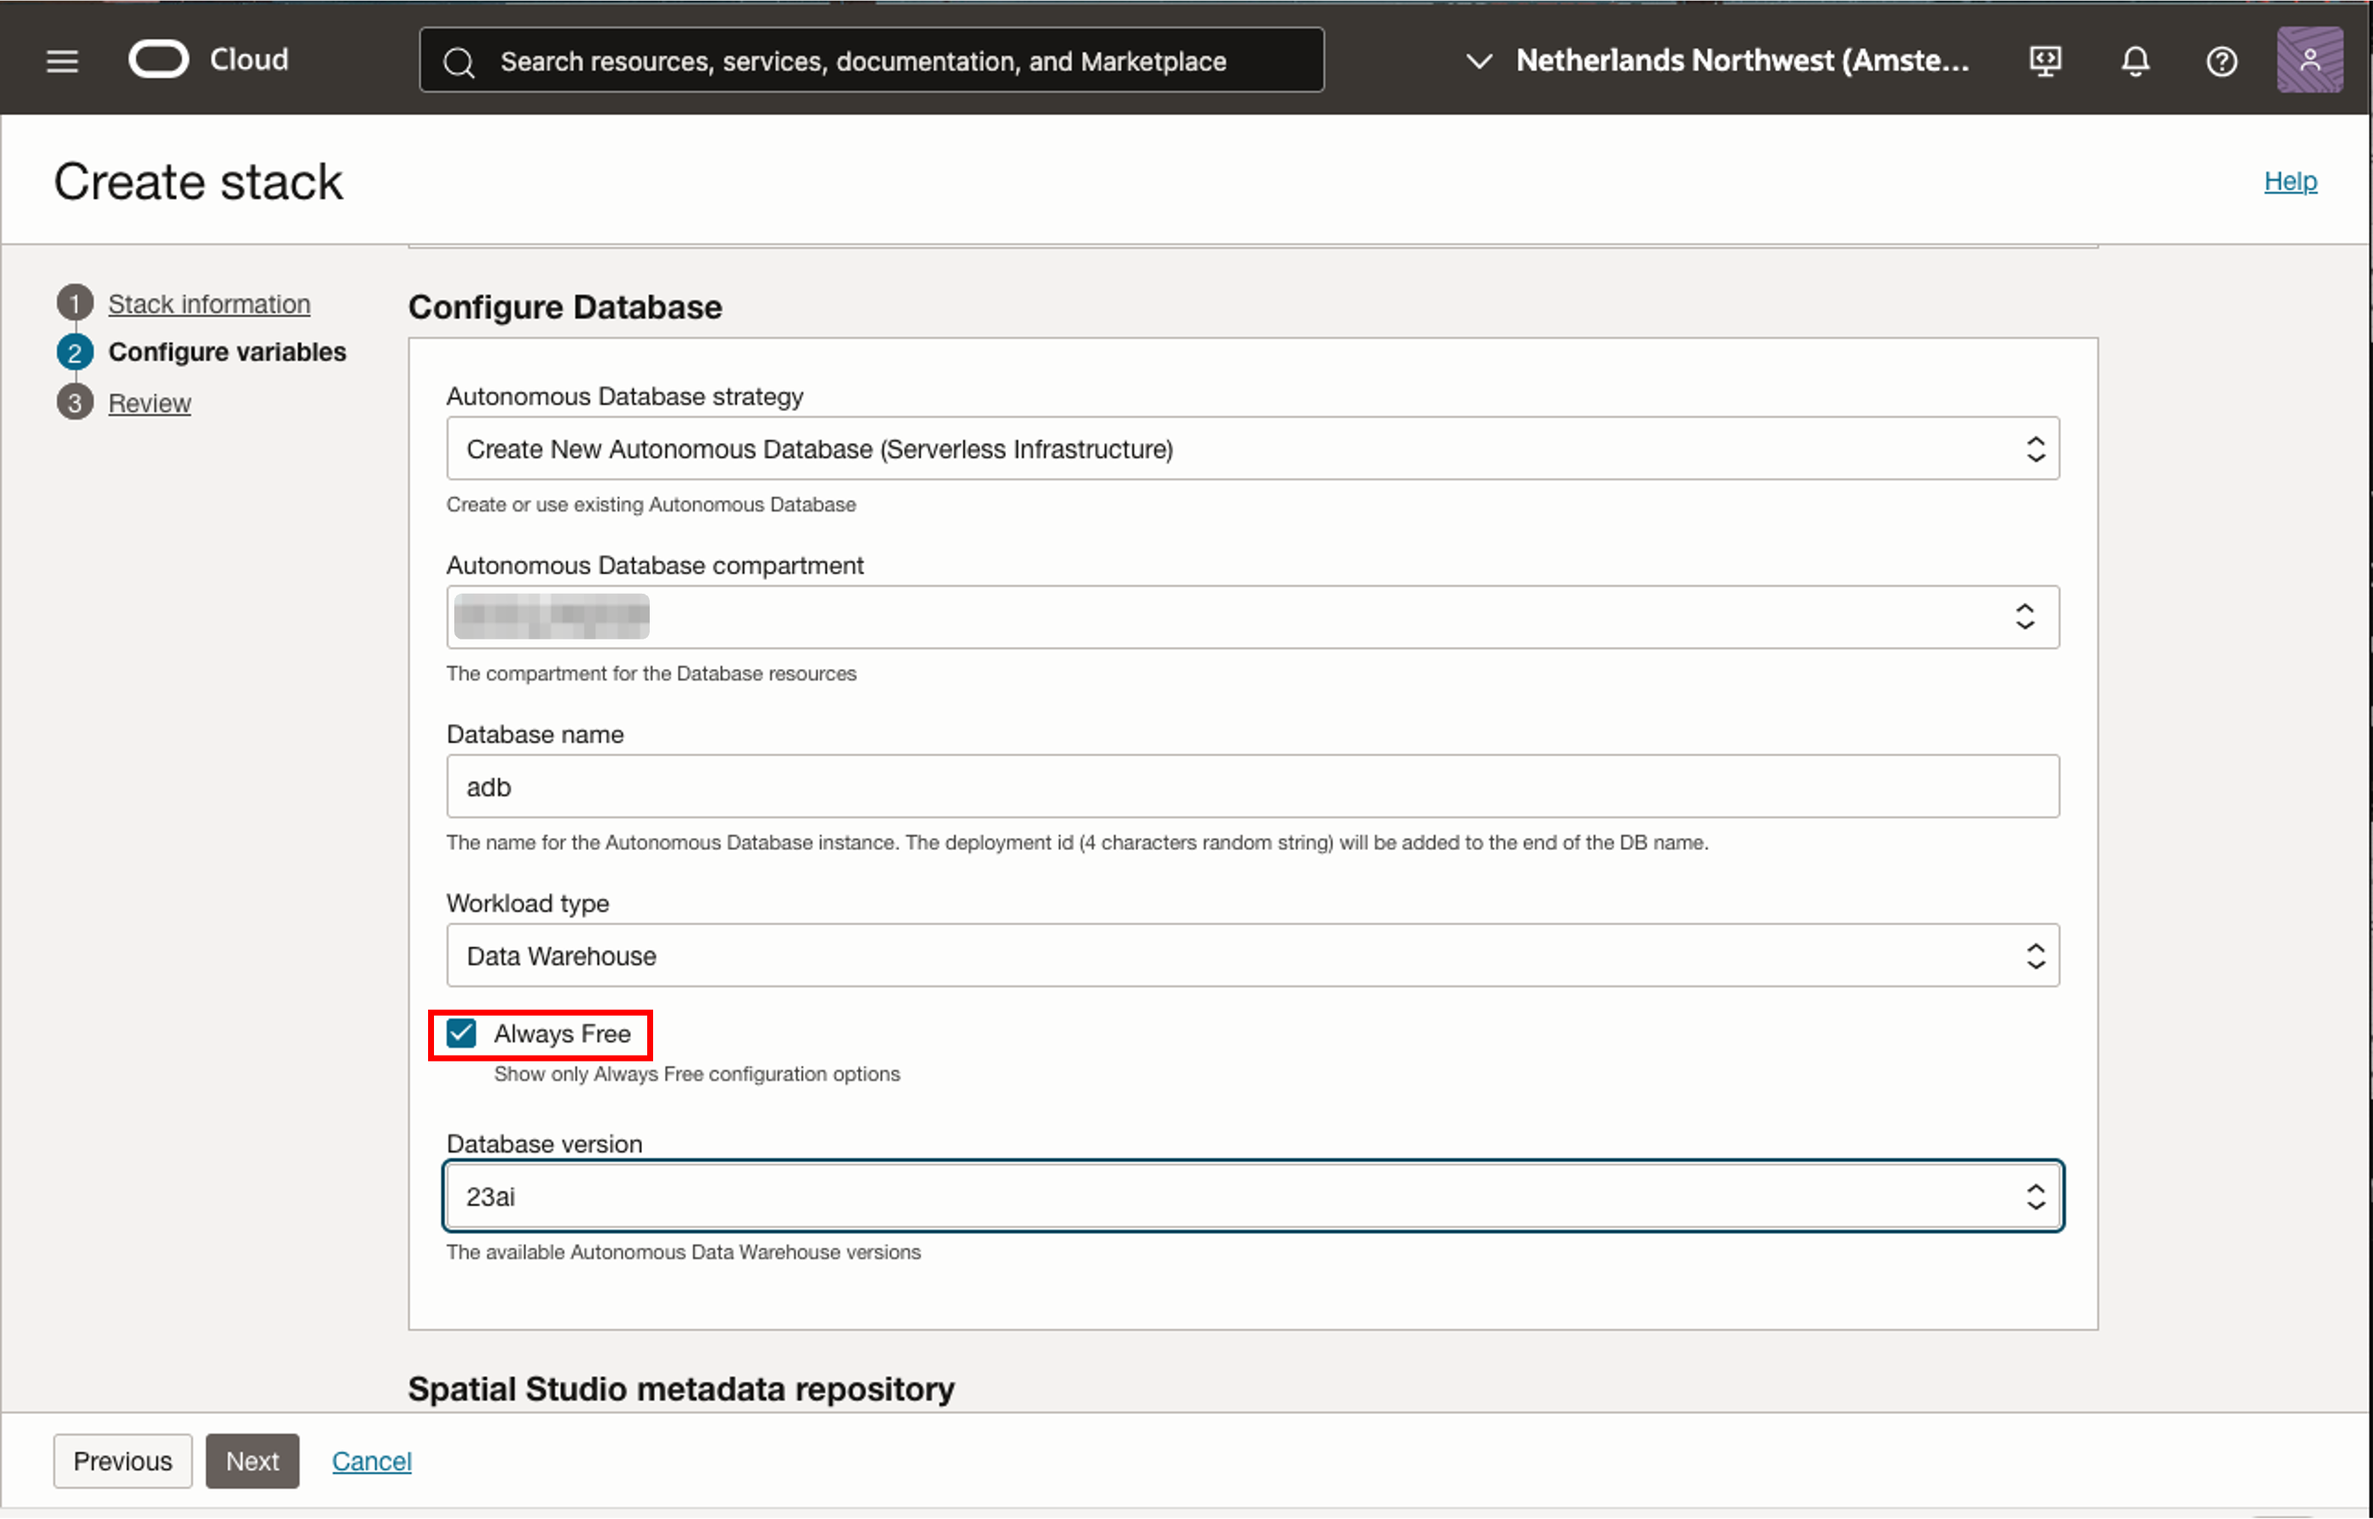
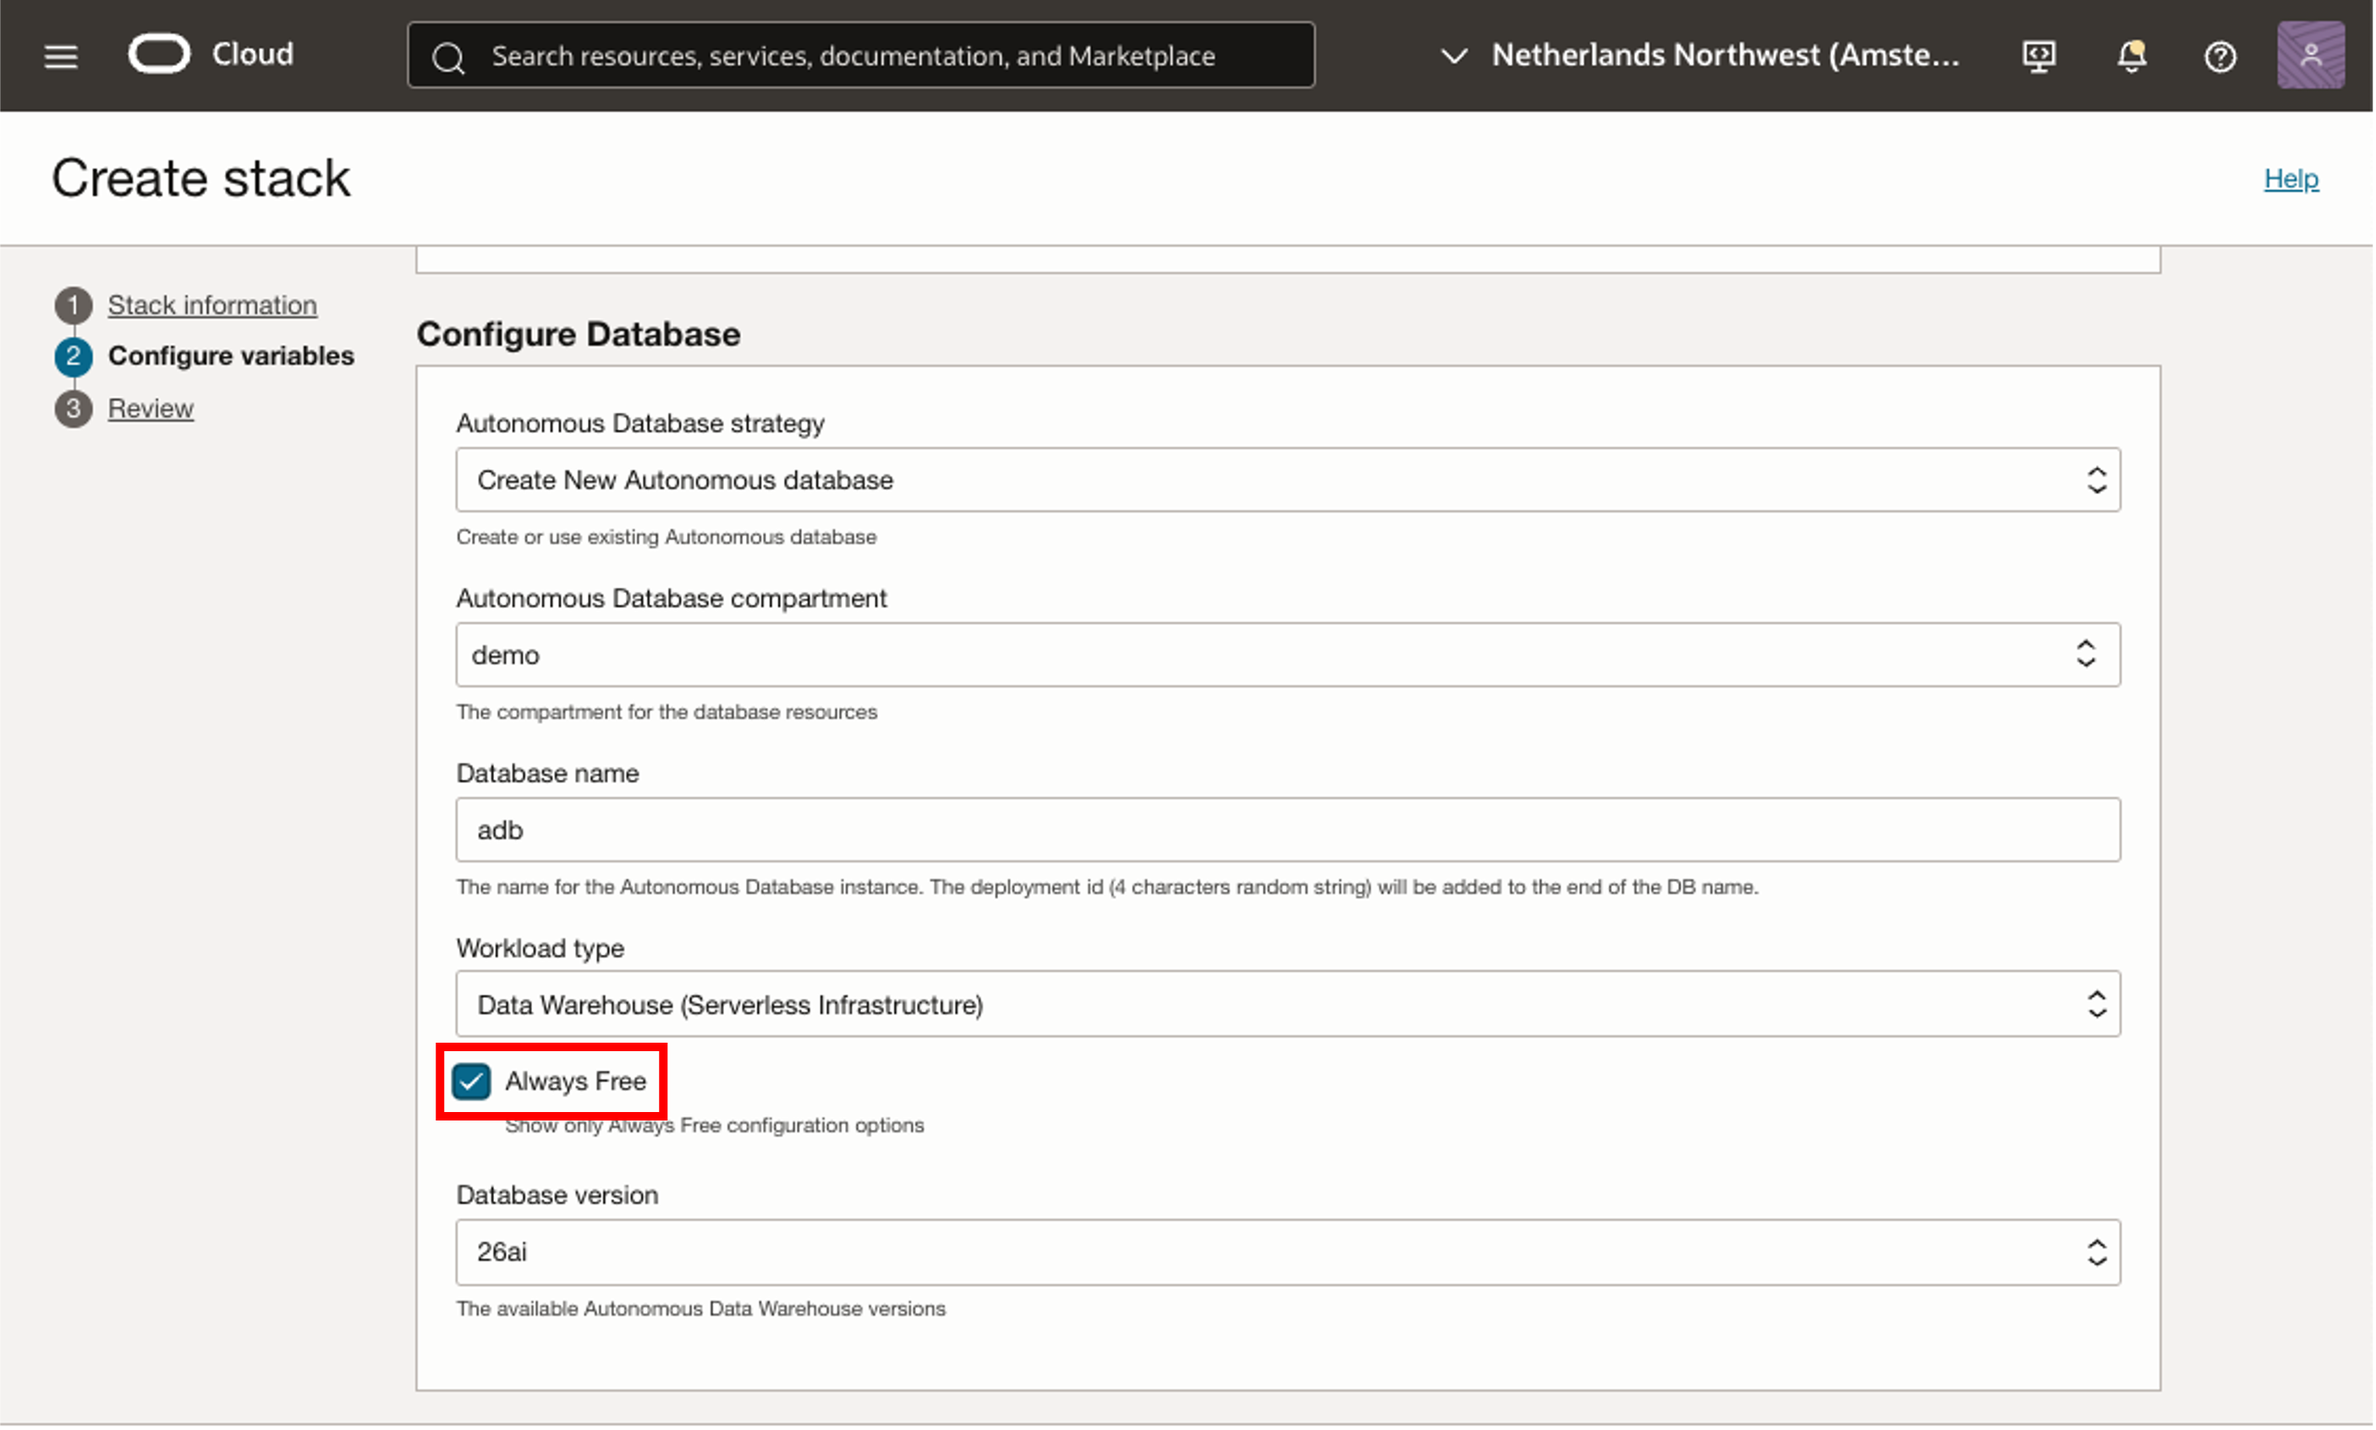
Changed database name to Oracle AI Database, updated images with 26ai and new OCI layout and deletet some old images

diff --git a/spatial-studio/env-mp/env-mp.md b/spatial-studio/env-mp/env-mp.md
@@ -2,7 +2,7 @@
 
 ## Introduction
 
-In this lab, you deploy Spatial Studio from the Cloud Marketplace. The Cloud Marketplace takes care of installing and configuring Spatial Studio and an Autonomous Database. For this workshop we will be using an Always Free account but you can use a paid account or an account with credits.
+In this lab, you deploy Spatial Studio from the Cloud Marketplace. The Cloud Marketplace takes care of installing and configuring Spatial Studio and an Oracle Autonomous AI Database. For this workshop we will be using an Always Free account but you can use a paid account or an account with credits.
 
 Estimated Time: 15 minutes
 
@@ -12,7 +12,7 @@ Watch the video below for a quick walk-through of the lab.
 
 ### Objectives
 
-In this lab, you will:
+In this lab, you will: 
 
 * Deploy Spatial Studio from the Oracle Cloud Marketplace.
 
@@ -29,17 +29,19 @@ Before starting the Spatial Studio deployment, it is necessary to identify the a
 
    ![Check limits and quotas](images/quota-01-v2.png)
 
-2. The Scope menu lists availability domains. Select one availability domain, type **micro** in the Resource menu, and select **Cores for Standard.E2.1.Micro VM Instances**.
+2.  Select **Edit filters**.
 
-   ![Select compute shape](images/quota-02.png)
+   ![Select edit filters](images/quota-02a.png)
 
-3. The result listing shows the service limit (quota), usage, and availability of the selected shape in the selected availability domain. In the example below, there is no availability for the selected availability domain.
+3. 
+For Service select **Compute** , and type in the Search field **micro VM**.
+The Decription listing shows the service limit (quota), usage, and availability of the **Cores for Standard.E2.1.Micro VM Instances** in the selected availability domain. In the example below, there is no availability for the selected availability domain.
 
-   ![Check availability for selected compute shape](images/quota-03.png)
+   ![Check availability for selected compute shape](images/quota-03a.png)
 
-4. If the selected availability domain does not have quota, change to a new availability domain (if there exist more than one) and again enter **micro** in the Resource menu and select **Cores for Standard.E2.1.Micro VM Instances**. In this case, the availability domain has quota.
+4. If the selected availability domain does not have quota, change to a new availability domain (if there exist more than one) and again enter **micro VM** in the Search field and select **Cores for Standard.E2.1.Micro VM Instances**. In this case, the availability domain has quota.
 
-   ![Check availability for alternative compute shape](images/quota-04.png)
+   ![Check availability for alternative compute shape](images/quota-04a.png)
 
  Note the availability domain having quota for your target compute shape, as you will need to select it when installing Spatial Studio from the Cloud Marketplace.
 
@@ -53,29 +55,33 @@ Before starting the Spatial Studio deployment, it is necessary to identify the a
 
    >**Note:**  Make sure you select "Oracle Spatial Studio" and not "Oracle Spatial Studio for Roving Edge Infrastructure" or "Oracle Spatial Studio for Oracle Compute Cloud@Customer".
 
-   ![Search for application Oracle Spatial Studio](images/mp-02-v2.png)
+   ![Search for application Oracle Spatial Studio](images/mp-02-v3.png)
 
-3. If you have an existing preferred compartment, then select it, otherwise leave the default (root). Accept the terms and conditions, and click **Launch Stack**
+3.  Click **Launch Stack**
 
-   ![Launch stack for Oracle Spatial Studio](images/mp-04.png)
+   ![Launch stack for Oracle Spatial Studio](images/mp-03.png)
 
-4. Accept defaults and click **Next**.
+4. If you have an existing preferred compartment, then select it, otherwise leave the default. Accept the terms and conditions, and click **Launch Stack**
+
+   ![Launch stack with Compartment and Version ](images/mp-04b.png)
+
+5. Accept defaults and click **Next**.
 
    ![Define parameters for the deployment of Oracle Spatial Studio](images/mp-05-v2.png)
 
-5. Select the availability domain having quota, as you identified in Task 1.  Select the Always Free shape **VM.Standard.E2.1.Micro**. If you have available cloud credits or a paid account, you may select a paid shape instead.
+6. Select the availability domain having quota, as you identified in Task 1.  Select the Always Free shape **VM.Standard.E2.1.Micro**. If you have available cloud credits or a paid account, you may select a paid shape instead.
 
    ![More parameters for the deployment](images/mp-06-v2.png)
 
    Then scroll down.
 
-6. By default, Spatial Studio allows only HTTPS access, which requires additional configuration for secure access. To enable both HTTPS and HTTP you may uncheck this box. However read the important note under the checkbox before unchecking it. Enter a Spatial Studio Admin User Name. This user name will be case sensitive.
+7. By default, Spatial Studio allows only HTTPS access, which requires additional configuration for secure access. To enable both HTTPS and HTTP you may uncheck this box. However read the important note under the checkbox before unchecking it. Enter a Spatial Studio Admin User Name. This user name will be case sensitive.
 
    ![Spatial Studio Advanced Configuration](images/mp-07-v2.png)
 
    Then scroll down.
 
-7. Enter a password for the Spatial Studio admin user. This is the password you will use when you log in to Spatial Studio.
+8. Enter a password for the Spatial Studio admin user. This is the password you will use when you log in to Spatial Studio.
 
    ![Password for Spatial Studio Admin user](images/mp-07a-v2.png)
 
@@ -83,35 +89,35 @@ Before starting the Spatial Studio deployment, it is necessary to identify the a
 
    Then scroll down.
 
-8. Under Configure Networking, you can create choose to create a new VCN or use an existing VCN. Leave the defaults to have a network created for you, or select **Use Existing VCN** and pick a previously created VCN. Then scroll down.
+9. Under Configure Networking, you can create choose to create a new VCN or use an existing VCN. Leave the defaults to have a network created for you, or select **Use Existing VCN** and pick a previously created VCN. Then scroll down.
 
-9. SSH keys enable access to the Spatial Studio server for administration such as restarting the instance and checking log files. Only uncheck this option if your Spatial Studio instance is for temporary use and will not require administration.
+10. SSH keys enable access to the Spatial Studio server for administration such as restarting the instance and checking log files. Only uncheck this option if your Spatial Studio instance is for temporary use and will not require administration.
 
    ![Add SSH key for the compute instance used by Oracle Spatial Studio](images/mp-09-v2.png)
 
    Then scroll down.
 
-10. Spatial Studio requires access to an Oracle Database. You have the options to:
+11. Spatial Studio requires access to an Oracle AI Database. You have the options to:
 
-    * **Create New Autonomous Database**: It will create an Autonomous Database and will automatically do the Spatial Studio metadata user configuration.
-    * **Use Existing Autonomous Database**: It will allow you to pick an Autonomous Database that is already created and will automatically do the Spatial Studio metadata user configuration. You need the current admin credentials for this option.
-    * **Configure Later**: This will not do the Spatial Studio metadata user configuration. You will need to perform the Spatial Studio metadata user configuration and connection when you first log into Spatial Studio. See the [documentation](<https://docs.oracle.com/en/database/oracle/spatial-studio/24.2/spstu/setting-spatial-studio-metadata-schema.html>).
+    * **Create New Oracle Autonomous AI Database**: It will create an Oracle Autonomous AI Database and will automatically do the Spatial Studio metadata user configuration.
+    * **Use Existing Oracle Autonomous AI Database**: It will allow you to pick an Oracle Autonomous AI Database that is already created and will automatically do the Spatial Studio metadata user configuration. You need the current admin credentials for this option.
+    * **Configure Later**: This will not do the Spatial Studio metadata user configuration. You will need to perform the Spatial Studio metadata user configuration and connection when you first log into Spatial Studio. See the [documentation](<https://docs.oracle.com/en/database/oracle/spatial-studio/25.1/spstu/setting-spatial-studio-metadata-schema.html>).
 
-    If you are selecting **Create New Autonomous Database** and wish to use Always Free resources, check the box for **Always Free** and accept the other defaults to have an Autonomous Database created and configured for you. If you have available cloud credits or a paid account, you may uncheck this box and select a paid configuration instead.
+    If you are selecting **Create New Oracle Autonomous AI Database** and wish to use Always Free resources, check the box for **Always Free** and accept the other defaults to have an Oracle Autonomous AI Database created and configured for you. If you have available cloud credits or a paid account, you may uncheck this box and select a paid configuration instead.
 
     ![Configure Database to be used as repository by Oracle Spatial Studio](images/mp-11.png)
 
     Then scroll down.
 
-11. For Autonomous database service level, select **low**. Then enter a password for the database user that stores     Spatial Studio's metadata. This will be used in the automatic configuration of metadata for your Spatial Studio instance. You will not need to use this password again in this workshop. Then click **Next**.
+12. For Autonomous database service level, select **low**. Then enter a password for the database user that stores Spatial Studio's metadata. This will be used in the automatic configuration of metadata for your Spatial Studio instance. You will not need to use this password again in this workshop. Then click **Next**.
 
     ![Deploy Spatial Studio](images/mp-12-v2.png)
 
-12. You are now on the Review step of the wizard. Scroll to the bottom and make sure **Run apply** is checked. Then click **Create**.
+13. You are now on the Review step of the wizard. Scroll to the bottom and make sure **Run apply** is checked. Then click **Create**.
 
     ![Deploy Spatial Studio](images/mp-13-v2.png)
 
-13. Wait approximately 5 min for the status to change from IN PROCESS to SUCCEEDED.
+14. Wait approximately 5 min for the status to change from IN PROCESS to SUCCEEDED.
 
     ![Deploy Spatial Studio](images/mp-14-v2.png)
 
@@ -145,4 +151,4 @@ You may now **proceed to the next lab**.
 
 * **Author** - David Lapp, Database Product Management, Oracle
 * **Contributors** - Jesus Vizcarra, Ramu Murakami Gutierrez, Karin Patenge, Product Management, Oracle
-* **Last Updated By/Date** - Renée Wikestad, Database Product Management, June 2025
+* **Last Updated By/Date** - Renée Wikestad, Database Product Management, December 2025

diff --git a/spatial-studio/workshops/install-spatial-studio-mp/introduction/introduction.md b/spatial-studio/workshops/install-spatial-studio-mp/introduction/introduction.md
@@ -8,11 +8,11 @@ Estimated Time: 25 minutes
 
 ### About Oracle Spatial Studio
 
-Oracle Spatial Studio (Spatial Studio) is a web application providing self-service access to the spatial capabilities of Oracle Database. While these capabilities have historically required coding and/or use of 3rd party tools, Spatial Studio allows business users to create and share spatial analysis and interactive web maps using self-service GUIs.
+Oracle Spatial Studio (Spatial Studio) is a web application providing self-service access to the spatial capabilities of Oracle AI Database. While these capabilities have historically required coding and/or use of 3rd party tools, Spatial Studio allows business users to create and share spatial analysis and interactive web maps using self-service GUIs.
 
   ![Image alt text](./images/spatial-studio.png "Spatial Studio")
 
-Spatial Studio operates on spatial data in Oracle Database, meaning tables and views that include Oracle's geometry data type. This data can be pre-existing spatial data or non-spatial data which is prepared using Spatial Studio to add geometries based on attributes.
+Spatial Studio operates on spatial data in Oracle AI Database, meaning tables and views that include Oracle's geometry data type. This data can be pre-existing spatial data or non-spatial data which is prepared using Spatial Studio to add geometries based on attributes.
 
 Spatial Studio is a Java EE application that may be deployed to Oracle Cloud from the Oracle Cloud Marketplace. Spatial Studio can also be deployed manually to Oracle WebLogic or Jetty, or as a self contained pre-deployed Quick Start for testing.
 
@@ -35,4 +35,4 @@ For more information please visit [https://www.oracle.com/database/spatial/](htt
 
 - **Author** - David Lapp, Database Product Management, Oracle
 - **Contributors** - Karin Patenge, Database Product Management
-- **Last Updated By/Date** - Renée Wikestad, Database Product Management, June 2025
+- **Last Updated By/Date** - Renée Wikestad, Database Product Management, December 2025
